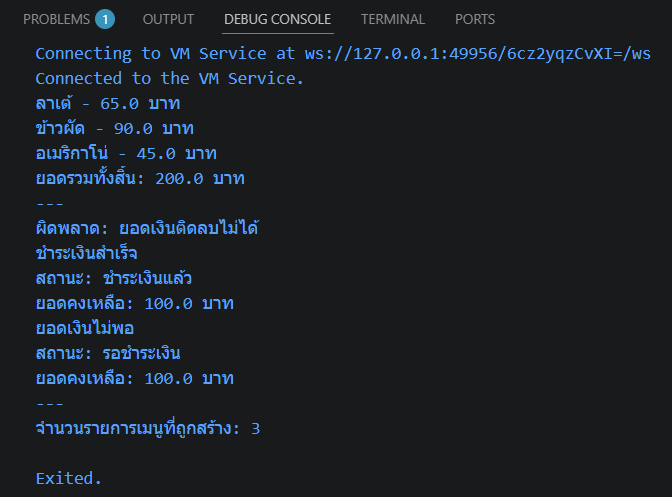
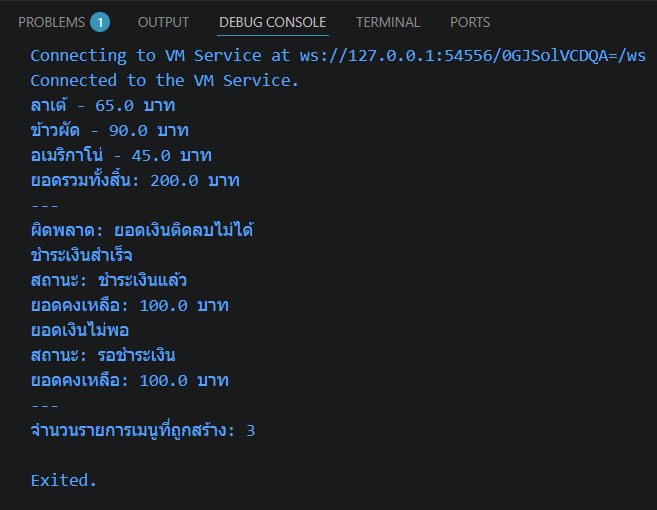
q3 commit

diff --git a/q2_oop.dart b/q2_oop.dart
@@ -9,7 +9,7 @@ void printOrderStatus(OrderStatus status) {
       print('สถานะ: ชำระเงินแล้ว');
       break;
     case OrderStatus.cancelled:
-      print('สถานะ: ยกเลิกคำสั่งซื้อ');
+      print('สถานะ: ยกเลิกการสั่งซื้อ');
       break;
   }
 }

diff --git a/README.md b/README.md
@@ -1,1 +1,1 @@
-# 67315268-dart-quiz
+# 67315268-dart-Re--Quiz